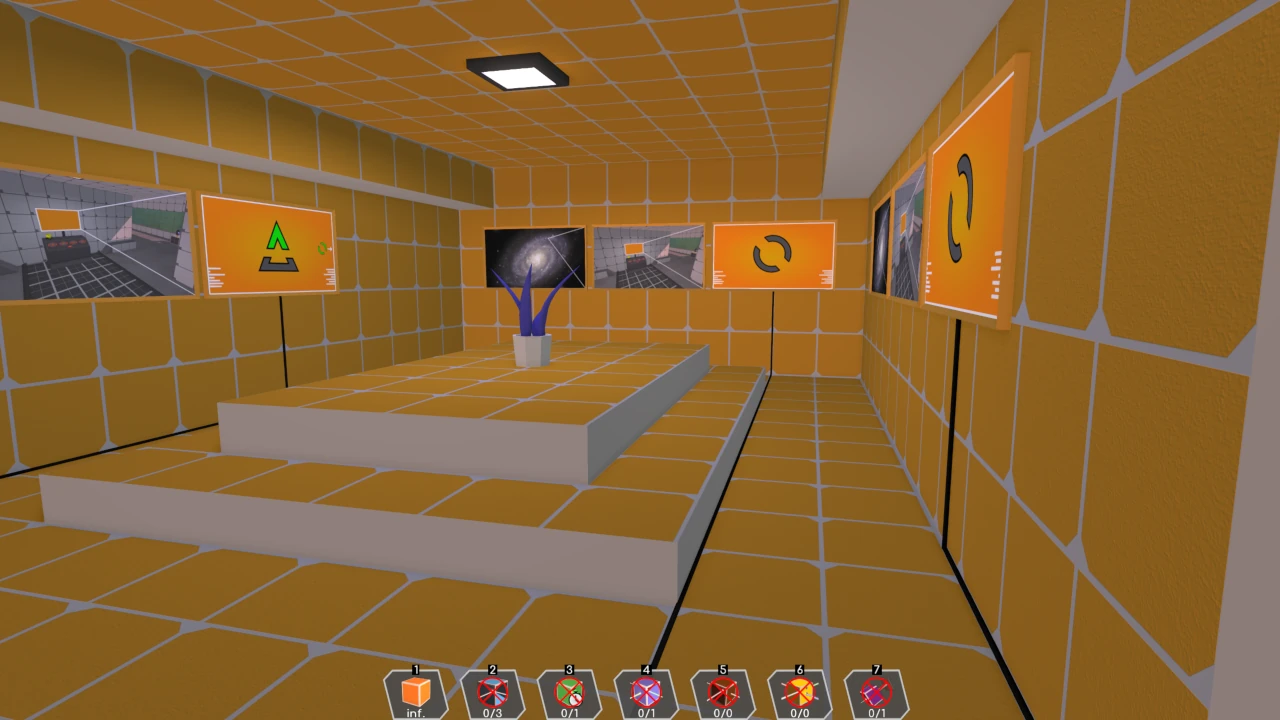
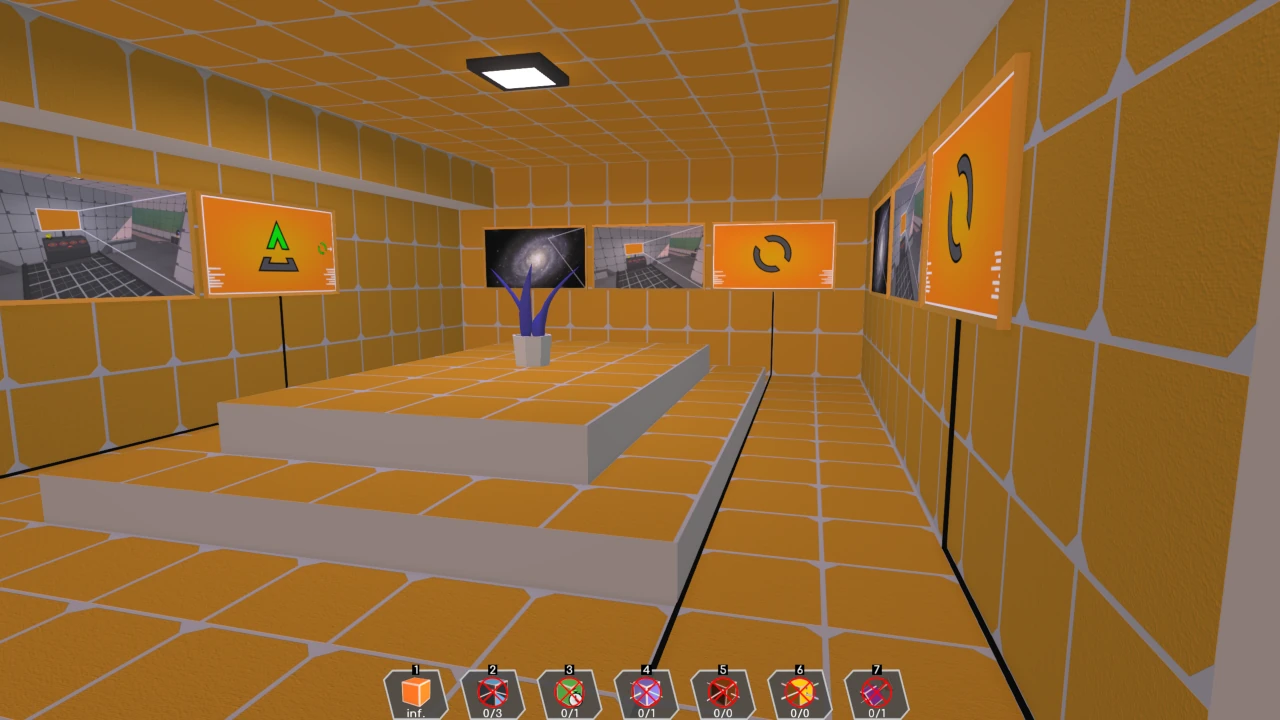
Update screenshots

Changed region(s): [[0.0, 0.4583, 0.8125, 1.0]]

diff --git a/deer-vision-frontend/src/pages/home/home.js b/deer-vision-frontend/src/pages/home/home.js
@@ -61,7 +61,7 @@ class Home extends Component {
         if (!window.matchMedia("(max-width: 800px)").matches) {
             let modalImg = document.getElementById("screenshots-modal-content");
             modalImg.src = ""; //for slow connection: display white/empty image first instead of the previous one displayed
-            modalImg.src = require('../../images/photon-engineer/screenshot' + screenshotId + '_1440p.webp');
+            modalImg.src = require('../../images/photon-engineer/screenshot' + screenshotId + '.png');
 
             let body = document.getElementsByTagName("body")[0];
             body.style.cursor = "pointer";
